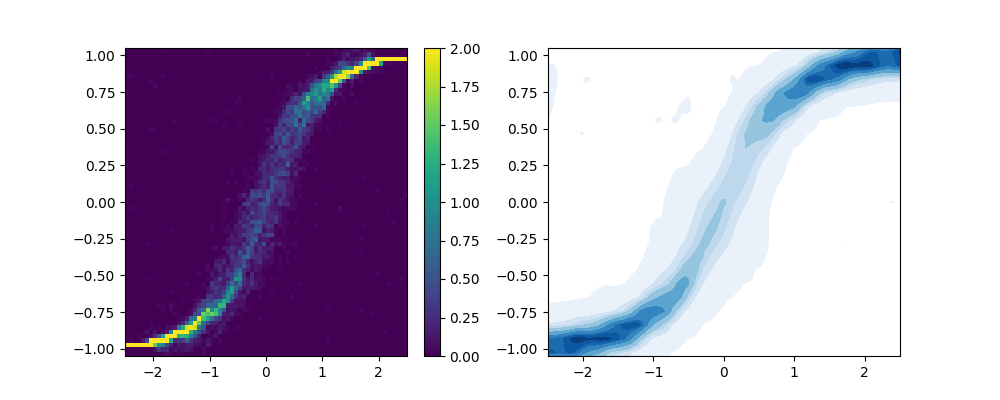
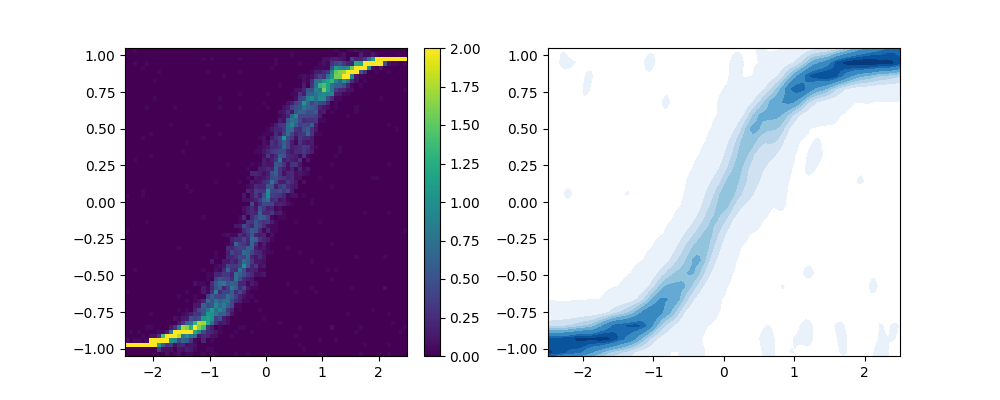
generic commit

Changed region(s): [[0.124, 0.12, 0.403, 0.87], [0.713, 0.12, 0.899, 0.54], [0.558, 0.57, 0.713, 0.9]]

diff --git a/scripts/transport/cflow_transport.py b/scripts/transport/cflow_transport.py
@@ -603,7 +603,7 @@ def vl_exp(N=10000, n_iter=10000, Yd=18, normal=True, exp_name='vl_exp'):
 
 
 def run():
-    vl_exp(4000, 601, exp_name='vl_exp2')
+    vl_exp(4000, 101, exp_name='vl_exp2')
     #ref_gen = sample_normal
     #two_d_exp(ref_gen, mgan2, N=4000, n_iter=101, plt_range=[[-2.5, 2.5], [-1.05, 1.05]],
               #slice_vals=[-1, 0, 1], slice_range=[-1.5, 1.5], exp_name='mgan2_composed3', skip_idx=1, vmax=2)
